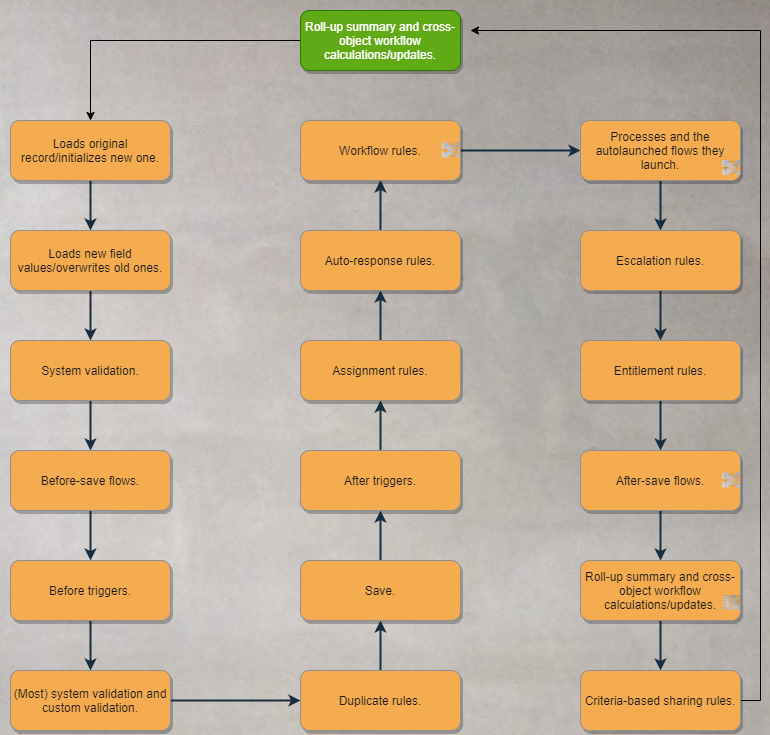
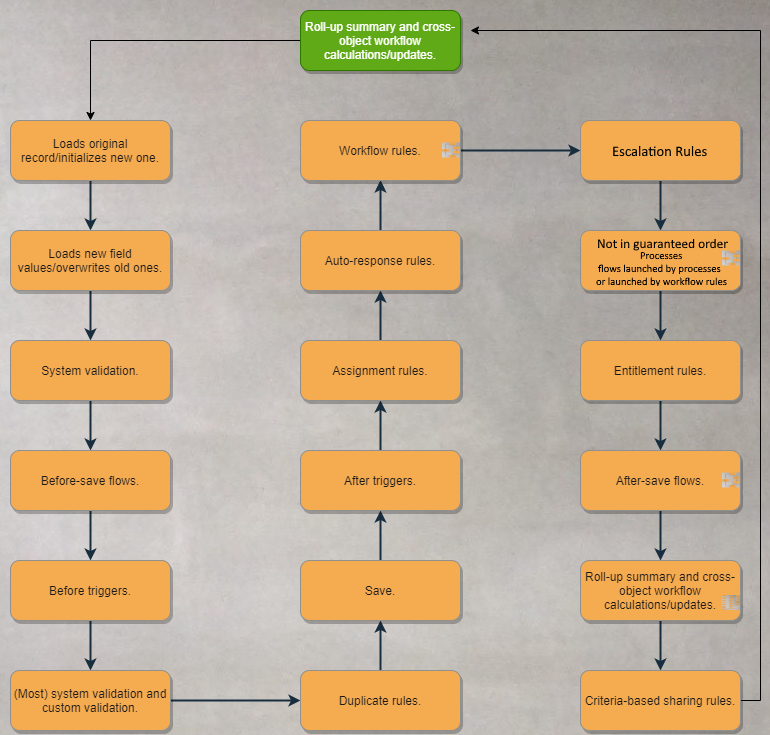
n/a

Changed region(s): [[0.7792, 0.3293, 0.9662, 0.3891], [0.7792, 0.1796, 0.9351, 0.2395], [0.9351, 0.2095, 0.9662, 0.2395]]

diff --git a/Week 3 - Save Order of Execution/LNOrder of Execution.md b/Week 3 - Save Order of Execution/LNOrder of Execution.md
@@ -2,18 +2,6 @@
 
 This module lists the steps involved in the Order of Execution, considers its consequences, and defines transactions.
 
-## Table of Contents
-
-* [The Save Order of Execution](#the-save-order-of-execution)
-    * [Spurs](#spurs)
-        * [Workflow Rules](#workflow-rules)
-        * [Processes](#processes)
-        * [After-Save Flows](#after-save-flows)
-        * [Roll-Up Summaries and Cross-Object Workflows](#roll-up-summaries-and-cross-object-workflows)
-* [Order Within Steps](#order-within-steps)
-* [Let's Make Things Worse](#lets-make-things-worse)
-* [Transactions](#transactions)
-
 ### Helpful Links/References
 
 * [Triggers and the Order of Execution (Apex Developer Guide)](https://developer.salesforce.com/docs/atlas.en-us.apexcode.meta/apexcode/apex_triggers_order_of_execution.htm)
@@ -22,7 +10,11 @@ This module lists the steps involved in the Order of Execution, considers its co
 
 ## The Save Order of Execution
 
-A wise man once said "many things happen when DML." Perhaps fearing that he hadn't been heard, he said it again.... and even a third time. Despite his poor grammar, this man was correct - thus far in our Salesforce journey, we've seen the plethora of tools that we can use to manipulate and inspect our records - validation rules, flows, processes, triggers, etc, all of which run after a DML operation occurs. This raises the question: how does Salesforce keep track of _what_ should happen and _when_ it should happen when we invoke a DML operation? Enter the Save Order of Execution. The Save Order of Execution is the series of steps that happen on the server when we invoke the insert, update, or upsert DML operations (i.e. not the delete or undelete operations), whether by using the actual DML in our Apex code or pressing the save button in the user interface (on a record page, Visualforce page, or Lightning component).
+How does Salesforce keep track of _what_ should happen and _when_ it should happen when we save a 
+record? Enter the Save Order of Execution. The Save Order of Execution is the series of steps that 
+happen on the server when we invoke any insert, update, or upsert operations on a record, whether by 
+using Apex code or pressing the save button in the user interface (on a record page, Visualforce page, 
+or Lightning component).
 
 Let's take a look at the steps Salesforce goes through in both of these cases:
 
@@ -60,7 +52,7 @@ Lastly, we may go through this spur multiple times depending on the configuratio
 
 #### Processes
 
-Let's now move on to detail the thirteenth step, processes and the autolaunched flows they invoke. As the image below shows, when a process field update action or an autolaunched flow changes the value of a field, another subset of steps are rerun. This spur again includes before-update triggers, most system validation steps, the save, and after-update triggers. However, it also includes validation rules, which are run along with the system validation.
+Let's now move on to detail the processes and the autolaunched flows they invoke. As the image below shows, when a process field update action or an autolaunched flow changes the value of a field, another subset of steps are rerun. This spur again includes before-update triggers, most system validation steps, the save, and after-update triggers. However, it also includes validation rules, which are run along with the system validation.
 
 <p align="center"><img src="img/process_spur.png"/></p>
 
@@ -94,40 +86,37 @@ When creating triggers and processes, we said that it was a best practice to sti
 
 However, if we stick to one trigger, we can determine the order of operations carried out in the code simply by the order of our lines of code. Similarly, our processes will evaluate each criteria node in the order we define them and, unlike workflow rules, the actions we define will be executed in order of their definition as well.
 
-## Let's Make Things Worse
-
-We've already gone into a level of detail on the Save Order of Execution sufficient enough for many certification exams, but let's take that next step. It's time for your author to make a confession: when we were going over the spurs for workflow rules and processes earlier, we didn't quite tell the whole story, so we're going to do so now. Behold the full workflow rule-process spur in all of its monstrous glory:
-
-<p align="center"><img src="img/workflow_rule_process_spur.png"/></p>
-
-Alright, let's verbally explain what's going on here. When the system arrives at what we originally listed as step twelve, it finds all workflow rules whose criteria are met and executes them all at once. After the associated immediate actions have occurred, the system will rerun before-update triggers and most system validation, save the now updated record, and rerun after-update triggers if at least one of those immediate actions changed a field value.
-
-Here's where things start to get tricky - let's consider three cases. First, the case that there aren't any processes with fulfilled criteria nodes and none of the field update actions from the previously executed workflow rules had the `Re-evaluate Workflow Rules After Field Change` checkbox selected. Here, the system will simply move on to executing escalation rules.
-
-Easy enough, right? Time for the second case: there aren't any processes with fulfilled criteria nodes, but at least one of the field update actions executed had the `Re-evaluate Workflow Rules After Field Change` checkbox selected. In these circumstances, the system will follow our red arrow and return to the workflow rules. If there are any workflow rules whose criteria are met but haven't yet executed, they will be executed and the system will progress through the subsequent series of steps through our after-update triggers if at least one of the field update actions changed a field value.
-
-If one of these new field updates had the `Re-evaluate Workflow Rules After Field Change` checkbox selected, the system will again follow our red arrow after the after-update triggers and return to workflow rules, continuing this cycle until it has run out of workflow rules with fulfilled criteria that haven't been executed, none of the field update actions (if there were any) in the prior cycle were configured to reevaluate workflow rules, or it has gone through this cycle a total of six times.
-
-Okay, that was a little more complicated than the first case, but our third case will kick things up another notch: in this case, there are processes with fulfilled criteria nodes. The system will then follow the black arrow after the after-update triggers and find the first such process, execute it and then continue on in our diagram if that process changes a field value.
-
-Here is where we'll have to address another simplification that we made earlier: a process that changes a field value actually reruns every step from before-save flows to auto-response rules - that's before-save flows, before-update triggers, most system validation and validation rules, duplicate rules, the save, after-update triggers, assignment rules, and auto-response rules.
-
-At this point, if there are more other processes with fulfilled criteria, the system will follow our red arrow and return to the process step, execute the actions associated with the fulfilled criteria, and again go through this mini cycle (from before-save flows to auto-response rules) as long as there are processes with fulfilled criteria to be executed. Note that, at this point, these must be _separate_ processes. Even if a process has recursion enabled and its criteria are continually fulfilled, it will not be recursively executed at this time.
-
-Once the system has run out of processes with fulfilled criteria to execute, it will return to workflow rules. Now, any workflow rules with fulfilled criteria that haven't yet been executed will run - regardless of whether any prior field update actions had the `Re-evaluate Workflow Rules After Field Change` checkbox selected.
-
-The system will then go through the cycle that we've described in the entirety of our third case study up to a total of six times or until it runs out of workflow rules with fulfilled criteria that haven't executed, whichever comes first. These subsequent trips through the cycle are where recursive processes can be executed again if their criteria nodes are fulfilled.
-
 ## Transactions
 
-Let's finish this module by discussion transactions and their boundaries. This topic is important because we earlier saw that the commit and post-commit logic steps in the Save Order of Execution only happen once in a given transaction and we will later see that many of the limits governing the operations we perform in our Apex code are also enforced on a per-transaction basis.
+Let's finish this module by discussion transactions and their boundaries. This topic is important because we 
+earlier saw that the commit and post-commit logic steps in the Save Order of Execution only happen once in a given 
+transaction and we will later see that many of the limits governing the operations we perform in our Apex code are 
+also enforced on a per-transaction basis.
 
-Starting off with a definition, a transaction is a collection of operations executed through a single interaction with the server. If the entire transaction (and all the records within it) does not successfully proceed through all steps of the Save Order of Execution up to the commit step, all changes in the transaction are rolled back (note that failing DML operations from Database class methods with `allOrNone` set to `false` are considered successful in this context). Simply put, a transaction starts when the Salesforce servers are hit and only ends after the commit step.
+Starting off with a definition, a transaction is a collection of operations executed through a single interaction 
+with the server. If the entire transaction (and all the records within it) does not successfully proceed through 
+all steps of the Save Order of Execution up to the commit step, all changes in the transaction are rolled back 
+(note that failing DML operations from Database class methods with `allOrNone` set to `false` are considered 
+successful in this context). Simply put, a transaction starts when the Salesforce servers are hit and only ends 
+after the commit step.
 
-The boundary of a transaction can be a trigger, class method, anonymous block of code, Visualforce page, or custom web service method. E.g., if we click a button on a Visualforce page, all of the triggers and declarative features that execute as a result of that click are a single transaction. But because asynchronous Apex is only queued after the commit is performed, the execution of any asynchronous code occurs in a separate transaction.
+The boundary of a transaction can be a trigger, class method, anonymous block of code, Visualforce page, or custom 
+web service method. E.g., if we click a button on a Visualforce page, all of the triggers and declarative features 
+that execute as a result of that click are a single transaction. But because asynchronous Apex is only queued after 
+the commit is performed, the execution of any asynchronous code occurs in a separate transaction.
 
-We'll employ an analogy to solidify this concept: when we go to the grocery store, we pay for all of our items at once in a single transaction at checkout. It doesn't matter what kinds of groceries we're buying; fruits/vegetables, ingredients to make a cake, light bulbs, and even that super-comfy couch are all part of the same transaction.
+We'll employ an analogy to solidify this concept: when we go to the grocery store, we pay for all of our items at 
+once in a single transaction at checkout. It doesn't matter what kinds of groceries we're buying; fruits/vegetables, 
+ingredients to make a cake, light bulbs, and even that super-comfy couch are all part of the same transaction.
 
-We might even be buying some items that we weren't originally planning to - maybe some pecans that we're only getting as part of that cake recipe. We can think of those pecans as an implicit part of our transaction - we weren't planning to get them, but because we're baking that cake, we unintentionally caused ourselves to buy them. This is similar to the declarative and programmatic features like triggers and workflow rules that are implicitly part of our transactions even if we didn't plan on them being included when we invoked the operation.
+We might even be buying some items that we weren't originally planning to - maybe some pecans that we're only 
+getting as part of that cake recipe. We can think of those pecans as an implicit part of our transaction - we 
+weren't planning to get them, but because we're baking that cake, we unintentionally caused ourselves to buy them. 
+This is similar to the declarative and programmatic features like triggers and workflow rules that are implicitly 
+part of our transactions even if we didn't plan on them being included when we invoked the operation.
 
-But what if this grocery store is cash-only and we don't have enough cash on hand to buy all of our items at once? Let's suppose we ask the cashier if they can hold the items we'll buy after running to the ATM and they agree. We'll then pay for those items later, in a separate transaction, once we have more cash, just like the separate transaction that envelopes asynchronous Apex, which we can use to execute some operations later with a fresh set of governor limits.
+But what if this grocery store is cash-only and we don't have enough cash on hand to buy all of our items at once? 
+Let's suppose we ask the cashier if they can hold the items we'll buy after running to the ATM and they agree. 
+We'll then pay for those items later, in a separate transaction, once we have more cash, just like the separate 
+transaction that envelopes asynchronous Apex, which we can use to execute some operations later with a fresh set 
+of governor limits.

diff --git a/Week 3 - Data Visualization/LNData Visualization.md b/Week 3 - Data Visualization/LNData Visualization.md
@@ -58,7 +58,7 @@ This allows the user to define the information they want available in it. To cre
 to "Report Types" in your org settings. Here is what that looks like below. 
 
 <img src="images/customReportsCreation.png">
-<img src="images/customreports.png">
+<img src="images/custom_reports.png">
 
 #### Filters
 
